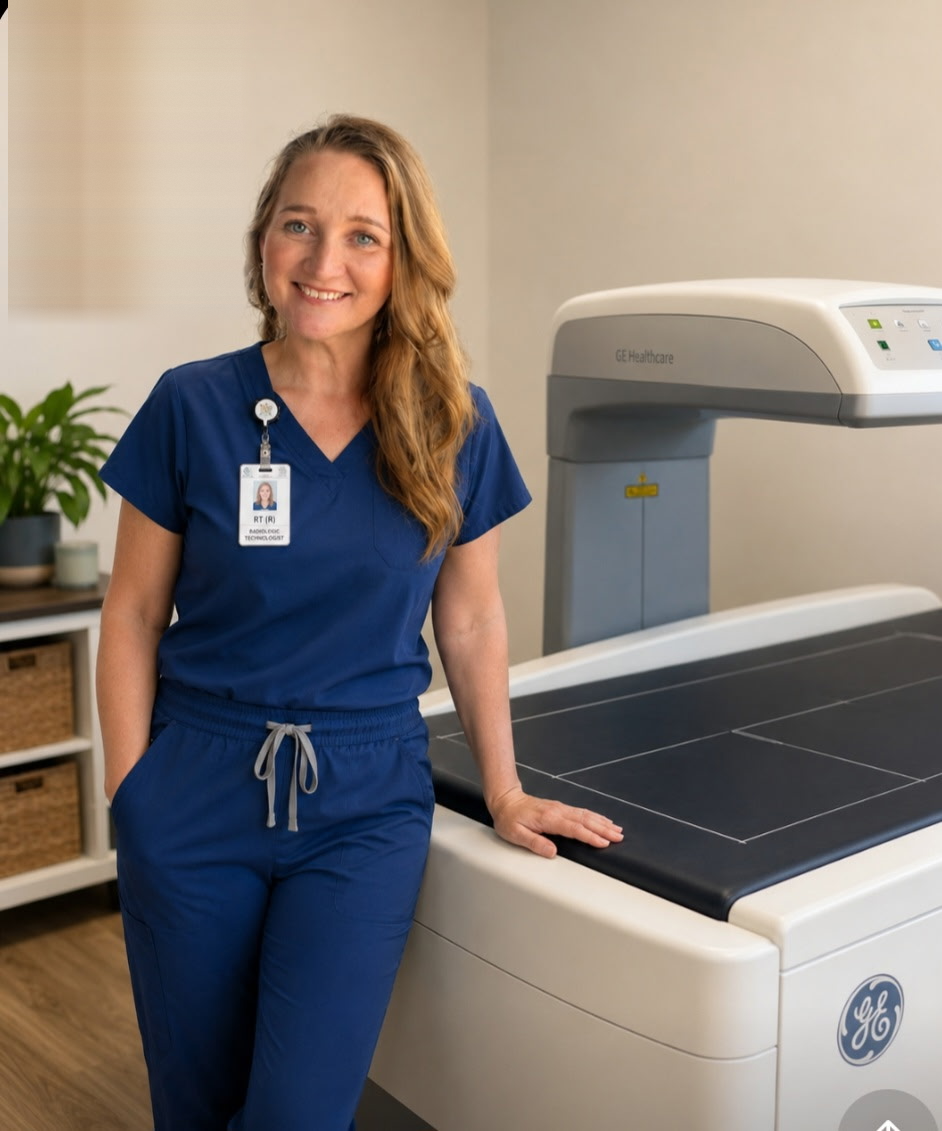
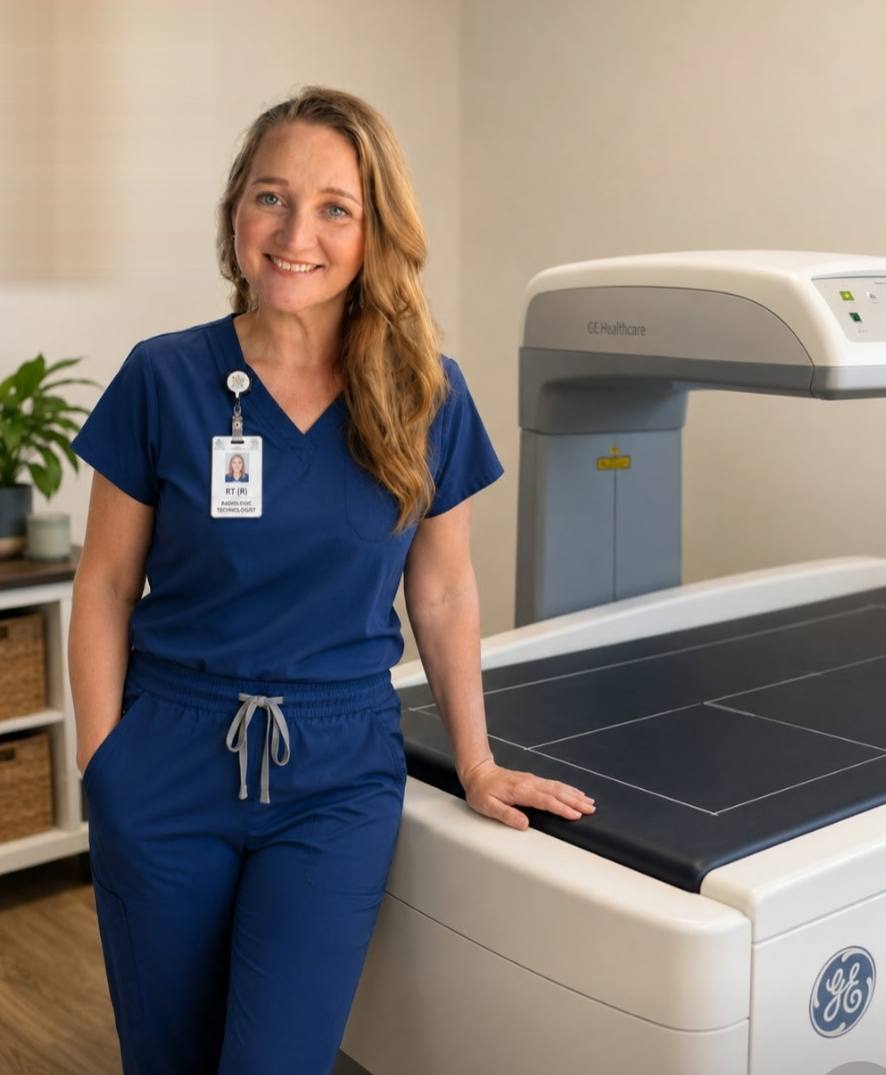
Swap in Amber photo without the black corner marking

diff --git a/index.html b/index.html
@@ -511,7 +511,7 @@ sc-if { display: contents; }
     <section style="padding:clamp(56px,7vw,104px) clamp(20px,5vw,56px) clamp(72px,9vw,120px)">
       <div style="max-width:1240px;margin:0 auto;display:flex;flex-wrap:wrap;gap:clamp(40px,5vw,88px);align-items:center">
         <figure style="flex:1 1 380px;min-width:280px;margin:0">
-          <div style="position:relative;width:100%;aspect-ratio:942/1131;background:#E7E1D6;overflow:hidden">
+          <div style="position:relative;width:100%;aspect-ratio:886/1075;background:#E7E1D6;overflow:hidden">
             <img src="assets/amber-about.jpg" alt="Amber, RT, standing beside the DEXA scanner at Precision Dexa" style="width:100%;height:100%;object-fit:cover;display:block">
           </div>
           <figcaption style="background:#0D3B66;padding:18px clamp(20px,2.4vw,28px);display:flex;justify-content:space-between;align-items:baseline;flex-wrap:wrap;gap:12px">
